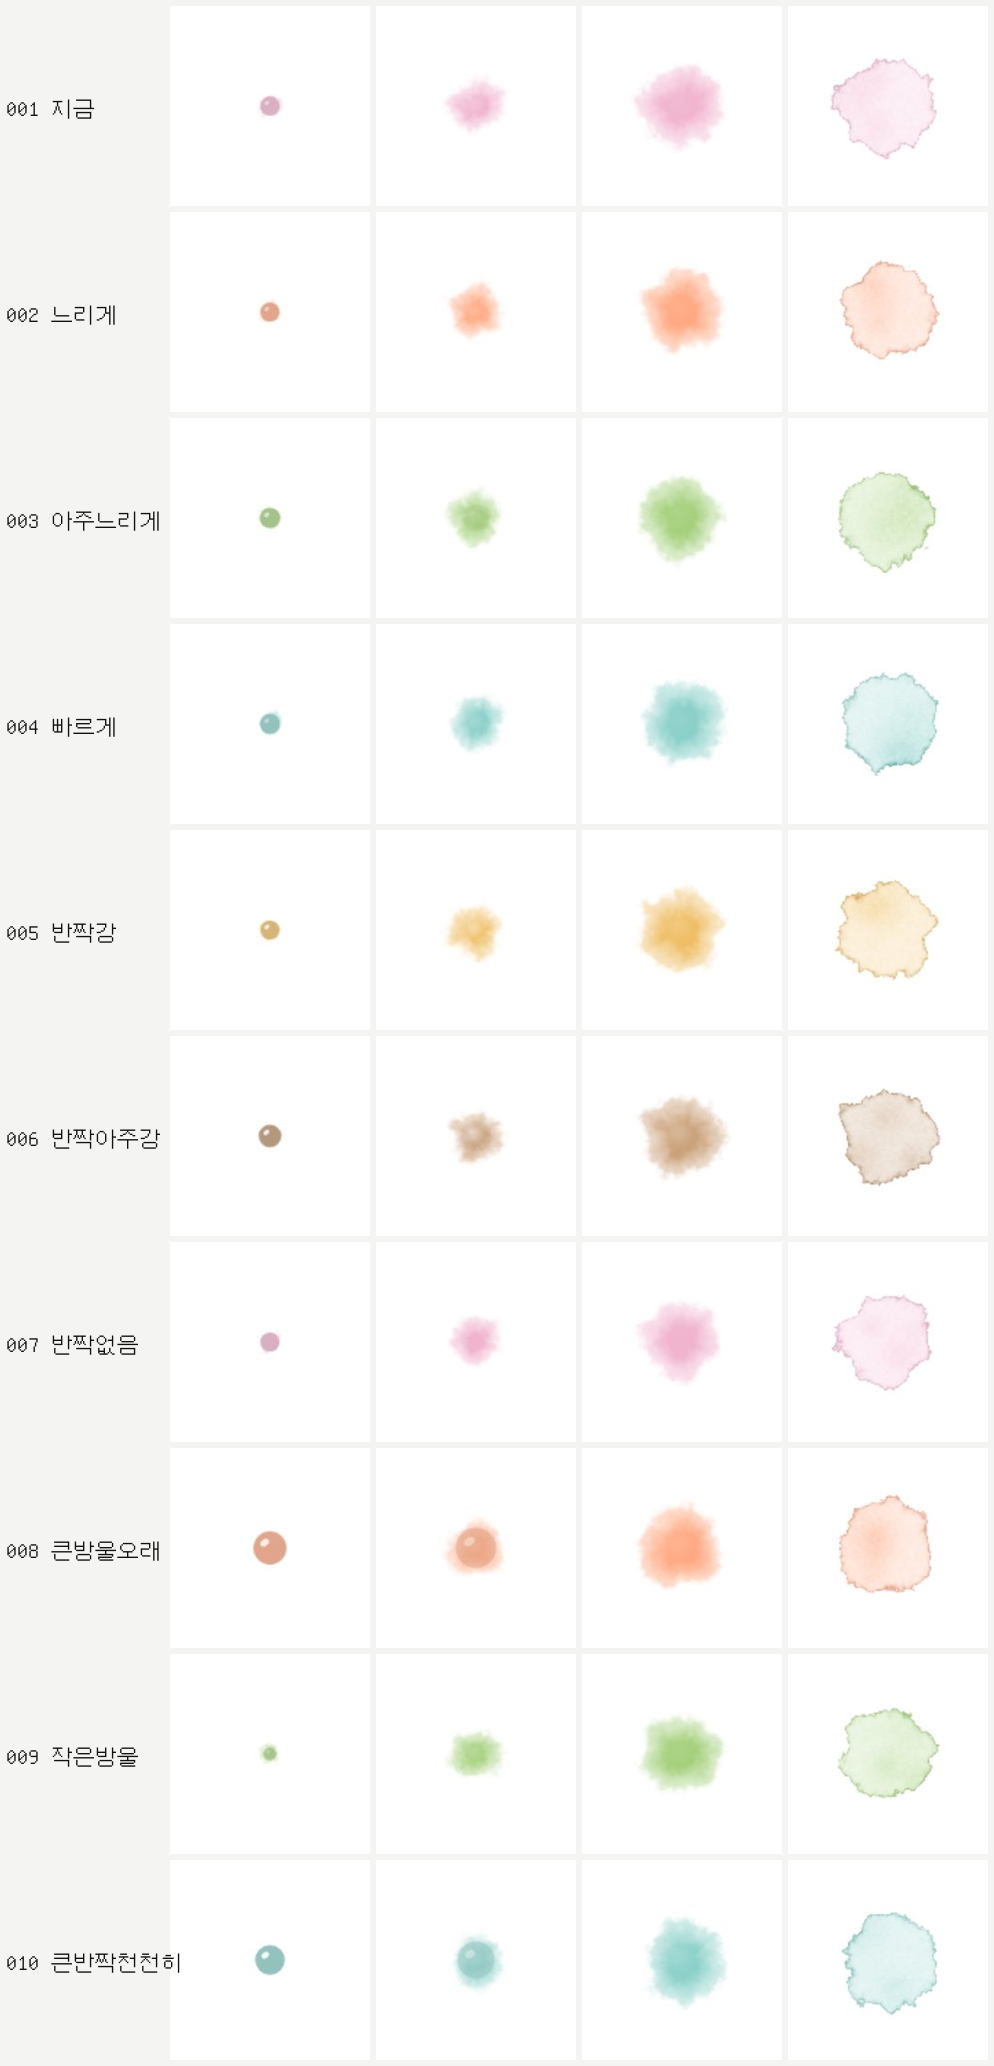
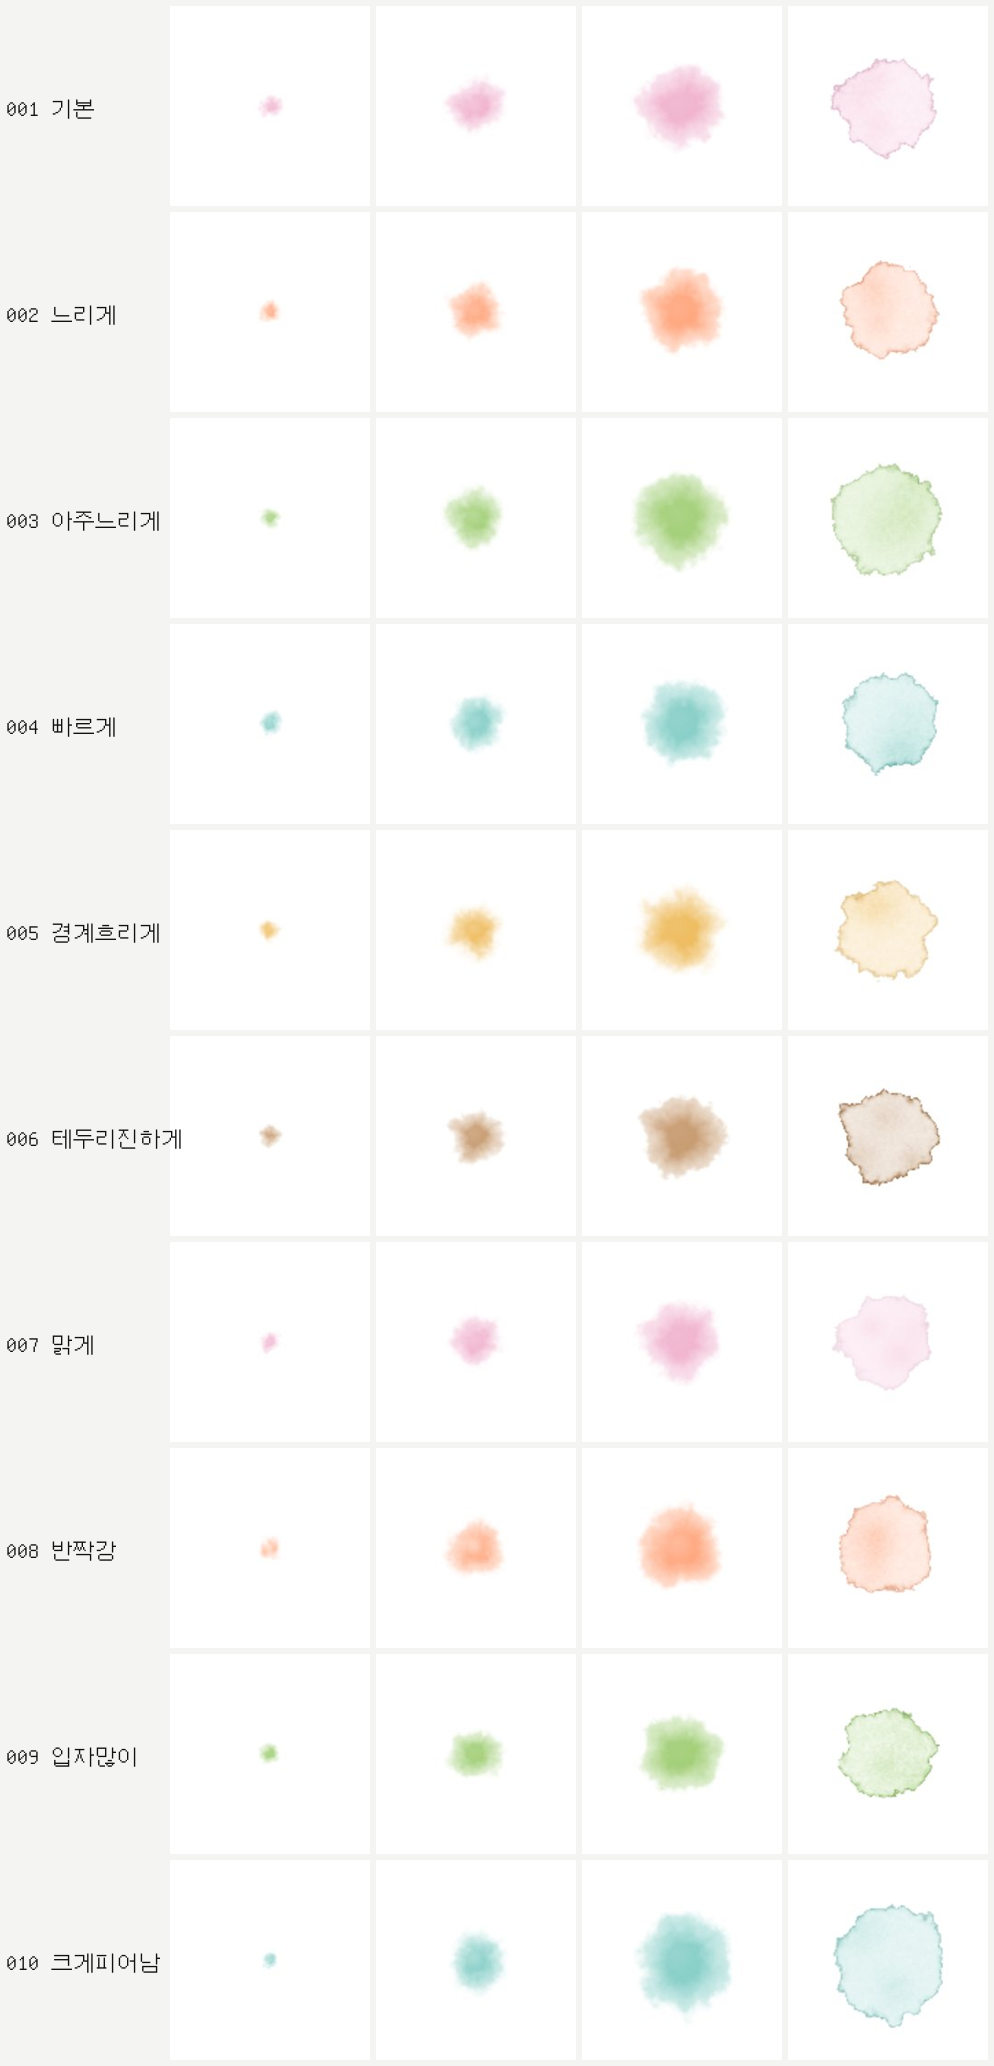
시안: 홈 수채 번짐 10종(방울 없이) — 속도·젖은 경계 흐림·테두리·반짝임·입자·크기
Claude-Session: https://claude.ai/code/session_01VYi7RYbVTTHX5Zvyr9oi23

diff --git a/previews/home-wash/index.html b/previews/home-wash/index.html
@@ -22,7 +22,7 @@ h1{font-size:24px;font-weight:800}
 .pickbox textarea{width:100%;height:80px}
 </style></head><body>
 <div class="wrap"><h1>홈 수채 번짐 시안 10종</h1>
-<p class="lead">위에서 내려다본 종이에 둥근 물감 방울이 맺혔다가 스며들며 퍼지고, 마르면서 테두리가 생겨요. 퍼지는 속도, 물기 반짝임, 처음 맺히는 방울의 크기·시간을 바꿨어요. 풍미 색이 차례로 바뀌며 반복돼요. ☆로 고르고 오른쪽 아래에서 복사해 붙여넣으세요.</p>
+<p class="lead">위에서 내려다본 종이에 물감이 스며들며 퍼지고, 마르면서 테두리가 생겨요(맺히는 방울 없음). 퍼지는 속도, 젖은 경계의 흐림, 테두리 진하기, 반짝임, 종이 입자, 크기를 바꿨어요. 풍미 색이 차례로 바뀌며 반복돼요. ☆로 고르고 오른쪽 아래에서 복사해 붙여넣으세요.</p>
 <div class="grid" id="grid"></div></div>
 <script>
 const WC={rng:seed=>{ let a=seed>>>0; return ()=>{ a|=0; a=a+0x6D2B79F5|0; let t=Math.imul(a^a>>>15,1|a); t=t+Math.imul(t^t>>>7,61|t)^t; return ((t^t>>>14)>>>0)/4294967296; }; }};
@@ -56,10 +56,10 @@ function makeWash(N,hex,seed,P){
   //  2.6~5.5초: 마르며 반짝임이 사라지고 전체가 밝아지며, 안료가 가장자리로 몰려 테두리가 또렷·진해짐, 입자가 드러남
   function frame(t,fade=1){
     t=t*P.spd;
-    const water=.07+(REACH-.07)*(1-Math.exp(-t/1.25));                 // 물이 닿은 범위
+    const RCH=REACH*P.reach, water=P.start+(RCH-P.start)*(1-Math.exp(-t/1.25));                 // 물이 닿은 범위
     const pig=water*(.62+.38*(1-Math.exp(-t/1.8)));                    // 색이 번진 범위(물보다 늦다)
     const w=1-Math.min(1,Math.max(0,(t-2.4)/3.0)), dry=1-w;            // 젖음 정도
-    const soft=.012+.07*w*Math.min(1,t/.9);                                              // 경계 흐림(젖을수록 흐림)
+    const soft=(.012+.07*w*Math.min(1,t/.9))*P.soft;                                              // 경계 흐림(젖을수록 흐림)
     const sh=Math.max(0,1-t/3.4)*1.25*P.gloss;                                       // 물 표면 반짝임
     for(let k=0;k<N*N;k++){ const o=k*4, tk=T[k];
       const bead=Math.max(0,1-t/P.beadT);
@@ -68,9 +68,9 @@ function makeWash(N,hex,seed,P){
       const q=tk/Math.max(.001,pig), wetA=(1.05*Math.exp(-q*q*1.2)+.25*(tk<pig?1:Math.exp(-(tk-pig)/(.02+.06*w))))*(1-.35*Math.min(1,tk/water));
       // 마른 색: 속은 맑고 고르게, 테두리에 안료가 몰림
       const inside=water-tk, rimBand=Math.exp(-Math.max(0,inside)/.02);
-      const dryA=.3+H[k]*.3+rimBand*.6;
+      const dryA=.3+H[k]*.3+rimBand*.6*P.rim;
       let amt=wetA*w+dryA*dry;
-      amt*=1-.24*(G[k]-.5)*2*dry;                                      // 마르면 입자가 드러난다
+      amt*=1-.24*P.gran*(G[k]-.5)*2*dry;                                      // 마르면 입자가 드러난다
       const edgeA=Math.max(0,Math.min(1,(water+soft*.4-tk)/soft));        // 경계: 젖을수록 부드럽게, 마르면 또렷
       const m=Math.min(1,rimBand*dry*.9);
       let c0=body[0]+(rim[0]-body[0])*m, c1=body[1]+(rim[1]-body[1])*m, c2=body[2]+(rim[2]-body[2])*m;
@@ -93,12 +93,12 @@ function makeWash(N,hex,seed,P){
   return {frame};
 }
 
-const V=[{n:'지금 앱 그대로',spd:1,gloss:1,beadR:1,beadT:0.7},{n:'느리게 퍼짐',spd:0.6,gloss:1,beadR:1,beadT:0.9},{n:'아주 느리게 퍼짐',spd:0.4,gloss:1.2,beadR:1.1,beadT:1.1},{n:'빠르게 퍼짐',spd:1.5,gloss:1,beadR:1,beadT:0.5},{n:'반짝임 강하게',spd:0.8,gloss:2.2,beadR:1,beadT:0.9},{n:'반짝임 아주 강하게',spd:0.7,gloss:3.2,beadR:1.2,beadT:1},{n:'반짝임 없음',spd:0.8,gloss:0,beadR:1,beadT:0.8},{n:'큰 방울이 오래 맺힘',spd:0.7,gloss:1.6,beadR:1.8,beadT:1.6},{n:'작은 방울이 바로 스밈',spd:0.9,gloss:1,beadR:0.6,beadT:0.35},{n:'큰 방울 · 반짝 · 천천히',spd:0.5,gloss:2.4,beadR:1.6,beadT:1.4}];
+const V=[{n:'기본',spd:1,gloss:1,start:0.07,reach:1,soft:1,rim:1,gran:1,beadR:0,beadT:.001},{n:'느리게 퍼짐',spd:0.6,gloss:1,start:0.07,reach:1,soft:1,rim:1,gran:1,beadR:0,beadT:.001},{n:'아주 느리게 · 크게',spd:0.4,gloss:1,start:0.05,reach:1.15,soft:1.2,rim:1,gran:1,beadR:0,beadT:.001},{n:'빠르게 퍼짐',spd:1.5,gloss:1,start:0.07,reach:1,soft:1,rim:1,gran:1,beadR:0,beadT:.001},{n:'젖은 경계 아주 흐리게',spd:0.7,gloss:1,start:0.07,reach:1,soft:2,rim:1,gran:1,beadR:0,beadT:.001},{n:'경계 또렷 · 테두리 진하게',spd:0.8,gloss:0.6,start:0.07,reach:1,soft:0.5,rim:1.8,gran:1,beadR:0,beadT:.001},{n:'테두리 없이 맑게',spd:0.8,gloss:1,start:0.07,reach:1,soft:1.3,rim:0.2,gran:0.4,beadR:0,beadT:.001},{n:'젖은 반짝임 강하게',spd:0.7,gloss:2.5,start:0.07,reach:1,soft:1.2,rim:1,gran:1,beadR:0,beadT:.001},{n:'입자 많이 · 마른 종이 느낌',spd:0.8,gloss:0.5,start:0.07,reach:1,soft:0.8,rim:1.3,gran:2.2,beadR:0,beadT:.001},{n:'한 점에서 크게 피어남',spd:0.55,gloss:1.4,start:0.02,reach:1.2,soft:1.4,rim:1.2,gran:1,beadR:0,beadT:.001}];
 const COLS=['#E9A9C6','#F2946A','#96C46A','#79C3BC','#E5B04F','#A87A4E'];
 const PX=Math.round(220*Math.min(2,devicePixelRatio||1)), N=Math.round(PX*.55);
-let FAV=new Set(); try{ FAV=new Set(JSON.parse(localStorage.getItem('tc.wash.fav')||'[]')); }catch(e){}
+let FAV=new Set(); try{ FAV=new Set(JSON.parse(localStorage.getItem('tc.wash2.fav')||'[]')); }catch(e){}
 const g=document.getElementById('grid');
-g.innerHTML=V.map((v,i)=>`<section class="card"><button class="star ${FAV.has(i)?'on':''}" data-i="${i}">${FAV.has(i)?'★':'☆'}</button><div class="no">${String(i+1).padStart(3,'0')}</div><canvas width="${PX}" height="${PX}"></canvas><h2>${v.n}</h2><p>속도 ${v.spd} · 반짝임 ${v.gloss} · 방울 ${v.beadR}</p></section>`).join('');
+g.innerHTML=V.map((v,i)=>`<section class="card"><button class="star ${FAV.has(i)?'on':''}" data-i="${i}">${FAV.has(i)?'★':'☆'}</button><div class="no">${String(i+1).padStart(3,'0')}</div><canvas width="${PX}" height="${PX}"></canvas><h2>${v.n}</h2><p>속도 ${v.spd} · 경계 흐림 ${v.soft} · 테두리 ${v.rim}</p></section>`).join('');
 const cards=[...g.querySelectorAll('.card')].map((el,i)=>({el,cv:el.querySelector('canvas'),v:V[i],i,cache:{}}));
 function cycleLen(v){ return 6.5/v.spd+1.6; }
 function draw(c,tt){ const L=cycleLen(c.v), cyc=Math.floor(tt/L), age=tt-cyc*L-.3, col=COLS[(cyc+c.i)%COLS.length];
@@ -112,6 +112,6 @@ function names(){ return V.map((v,i)=>FAV.has(i)?String(i+1).padStart(3,'0')+' '
 const box=document.createElement('div'); box.className='pickbox'; box.innerHTML='<b id="pc"></b><div class="pl" id="pl"></div><button id="cp">선택한 시안 복사하기</button><textarea id="ta" hidden readonly></textarea>'; document.body.appendChild(box);
 function up(){ const L=names(); document.getElementById('pc').textContent=L.length?`☆ ${L.length}개 골랐어요`:'마음에 드는 시안의 ☆을 눌러 골라주세요'; document.getElementById('pl').textContent=L.join('\n'); document.getElementById('cp').disabled=!L.length; }
 document.getElementById('cp').onclick=async()=>{ const t='홈 수채 번짐 - 내가 고른 시안\n'+names().join('\n'), ta=document.getElementById('ta'), b=document.getElementById('cp'); try{ await navigator.clipboard.writeText(t); b.textContent='복사했어요'; setTimeout(()=>b.textContent='선택한 시안 복사하기',2000); }catch(e){ ta.hidden=false; ta.value=t; ta.select(); } };
-g.querySelectorAll('.star').forEach(b=>b.onclick=()=>{ const i=+b.dataset.i; FAV.has(i)?FAV.delete(i):FAV.add(i); try{ localStorage.setItem('tc.wash.fav',JSON.stringify([...FAV])); }catch(e){} b.classList.toggle('on'); b.textContent=FAV.has(i)?'★':'☆'; up(); });
+g.querySelectorAll('.star').forEach(b=>b.onclick=()=>{ const i=+b.dataset.i; FAV.has(i)?FAV.delete(i):FAV.add(i); try{ localStorage.setItem('tc.wash2.fav',JSON.stringify([...FAV])); }catch(e){} b.classList.toggle('on'); b.textContent=FAV.has(i)?'★':'☆'; up(); });
 up(); window.READY=true;
 </script></body></html>
